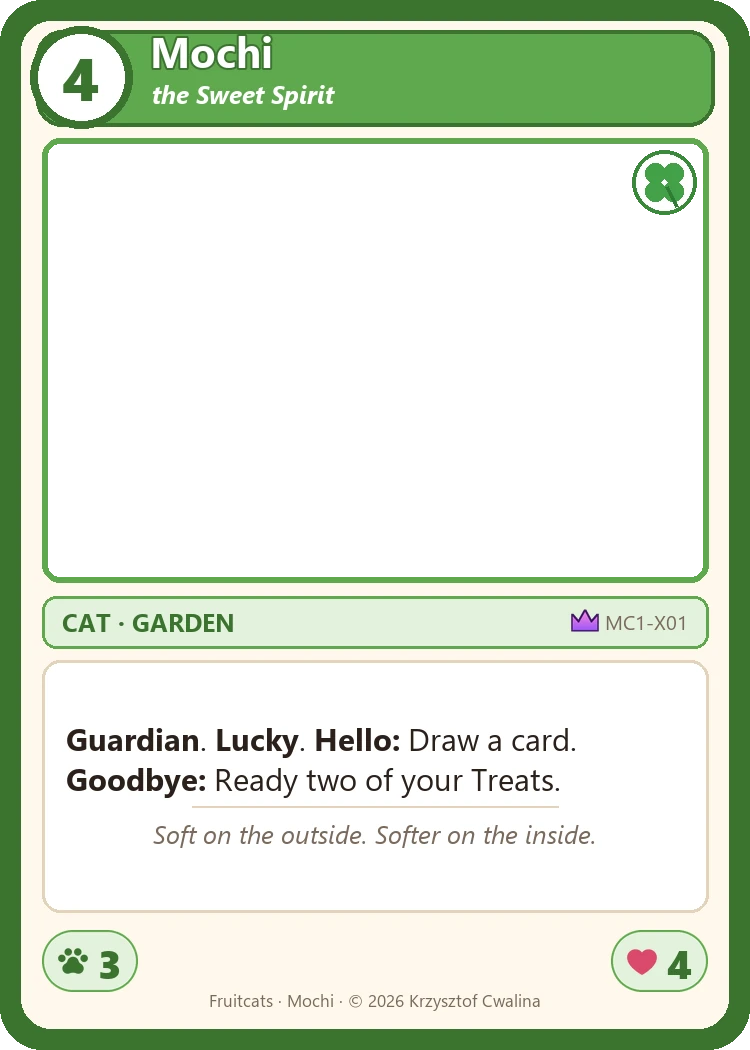
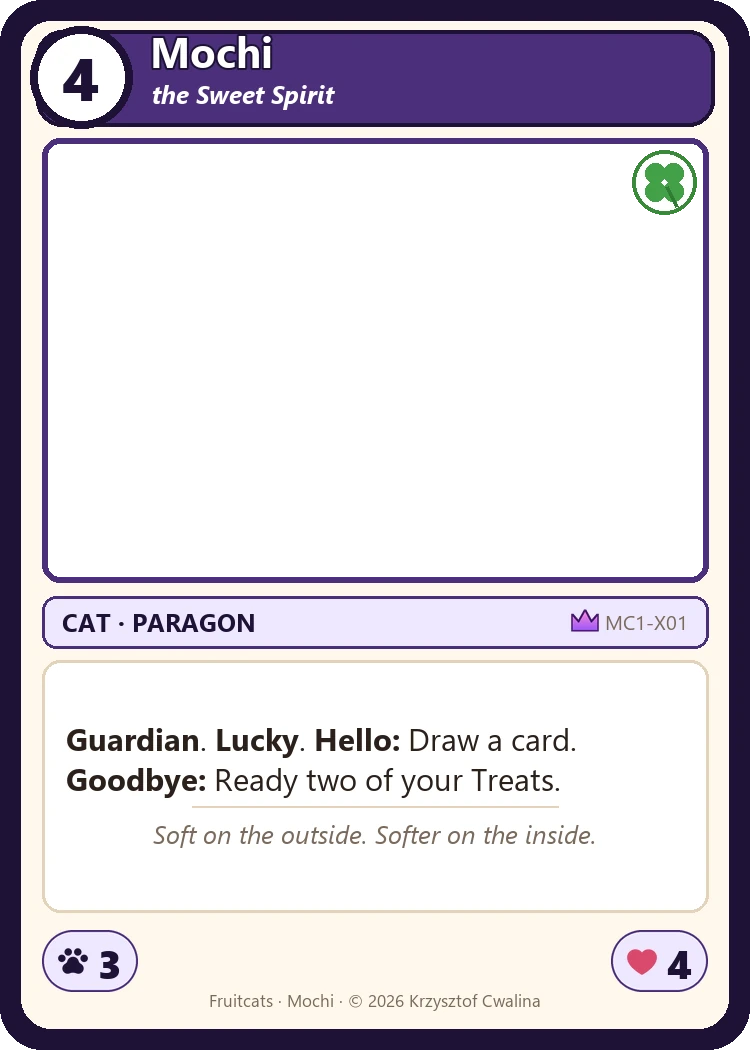
Paragon: a neutral family for the game's most important cards, in night-purple; Mochi is its first card

Changed region(s): [[0.0, 0.0, 1.0, 1.0], [0.0613, 0.8838, 0.184, 0.9448]]

diff --git a/tools/compose_cards.py b/tools/compose_cards.py
@@ -344,8 +344,6 @@ def compose(card: dict, side: str | None, art_path: Path | None, finish: str = "
     if finish == SIGNATURE and card.get("signature") == "rainbow":
         finish = RAINBOW_SIGNATURE     # the rainbow Signature stone, printed where the card's Signature goes
     main, dark, tint = FAMILIES[card["family"]]
-    if finish == RAINBOW_SIGNATURE:    # night-purple, the stone's own colour, so the rainbow is the only colour on the frame
-        main, dark, tint = "#4a2f7a", "#1e1236", "#efe8ff"
     face = card[{"kitten": "kitten", "bigcat": "bigCat"}[side]] if side else card
     name = face["name"]
     text = face.get("text", "")
